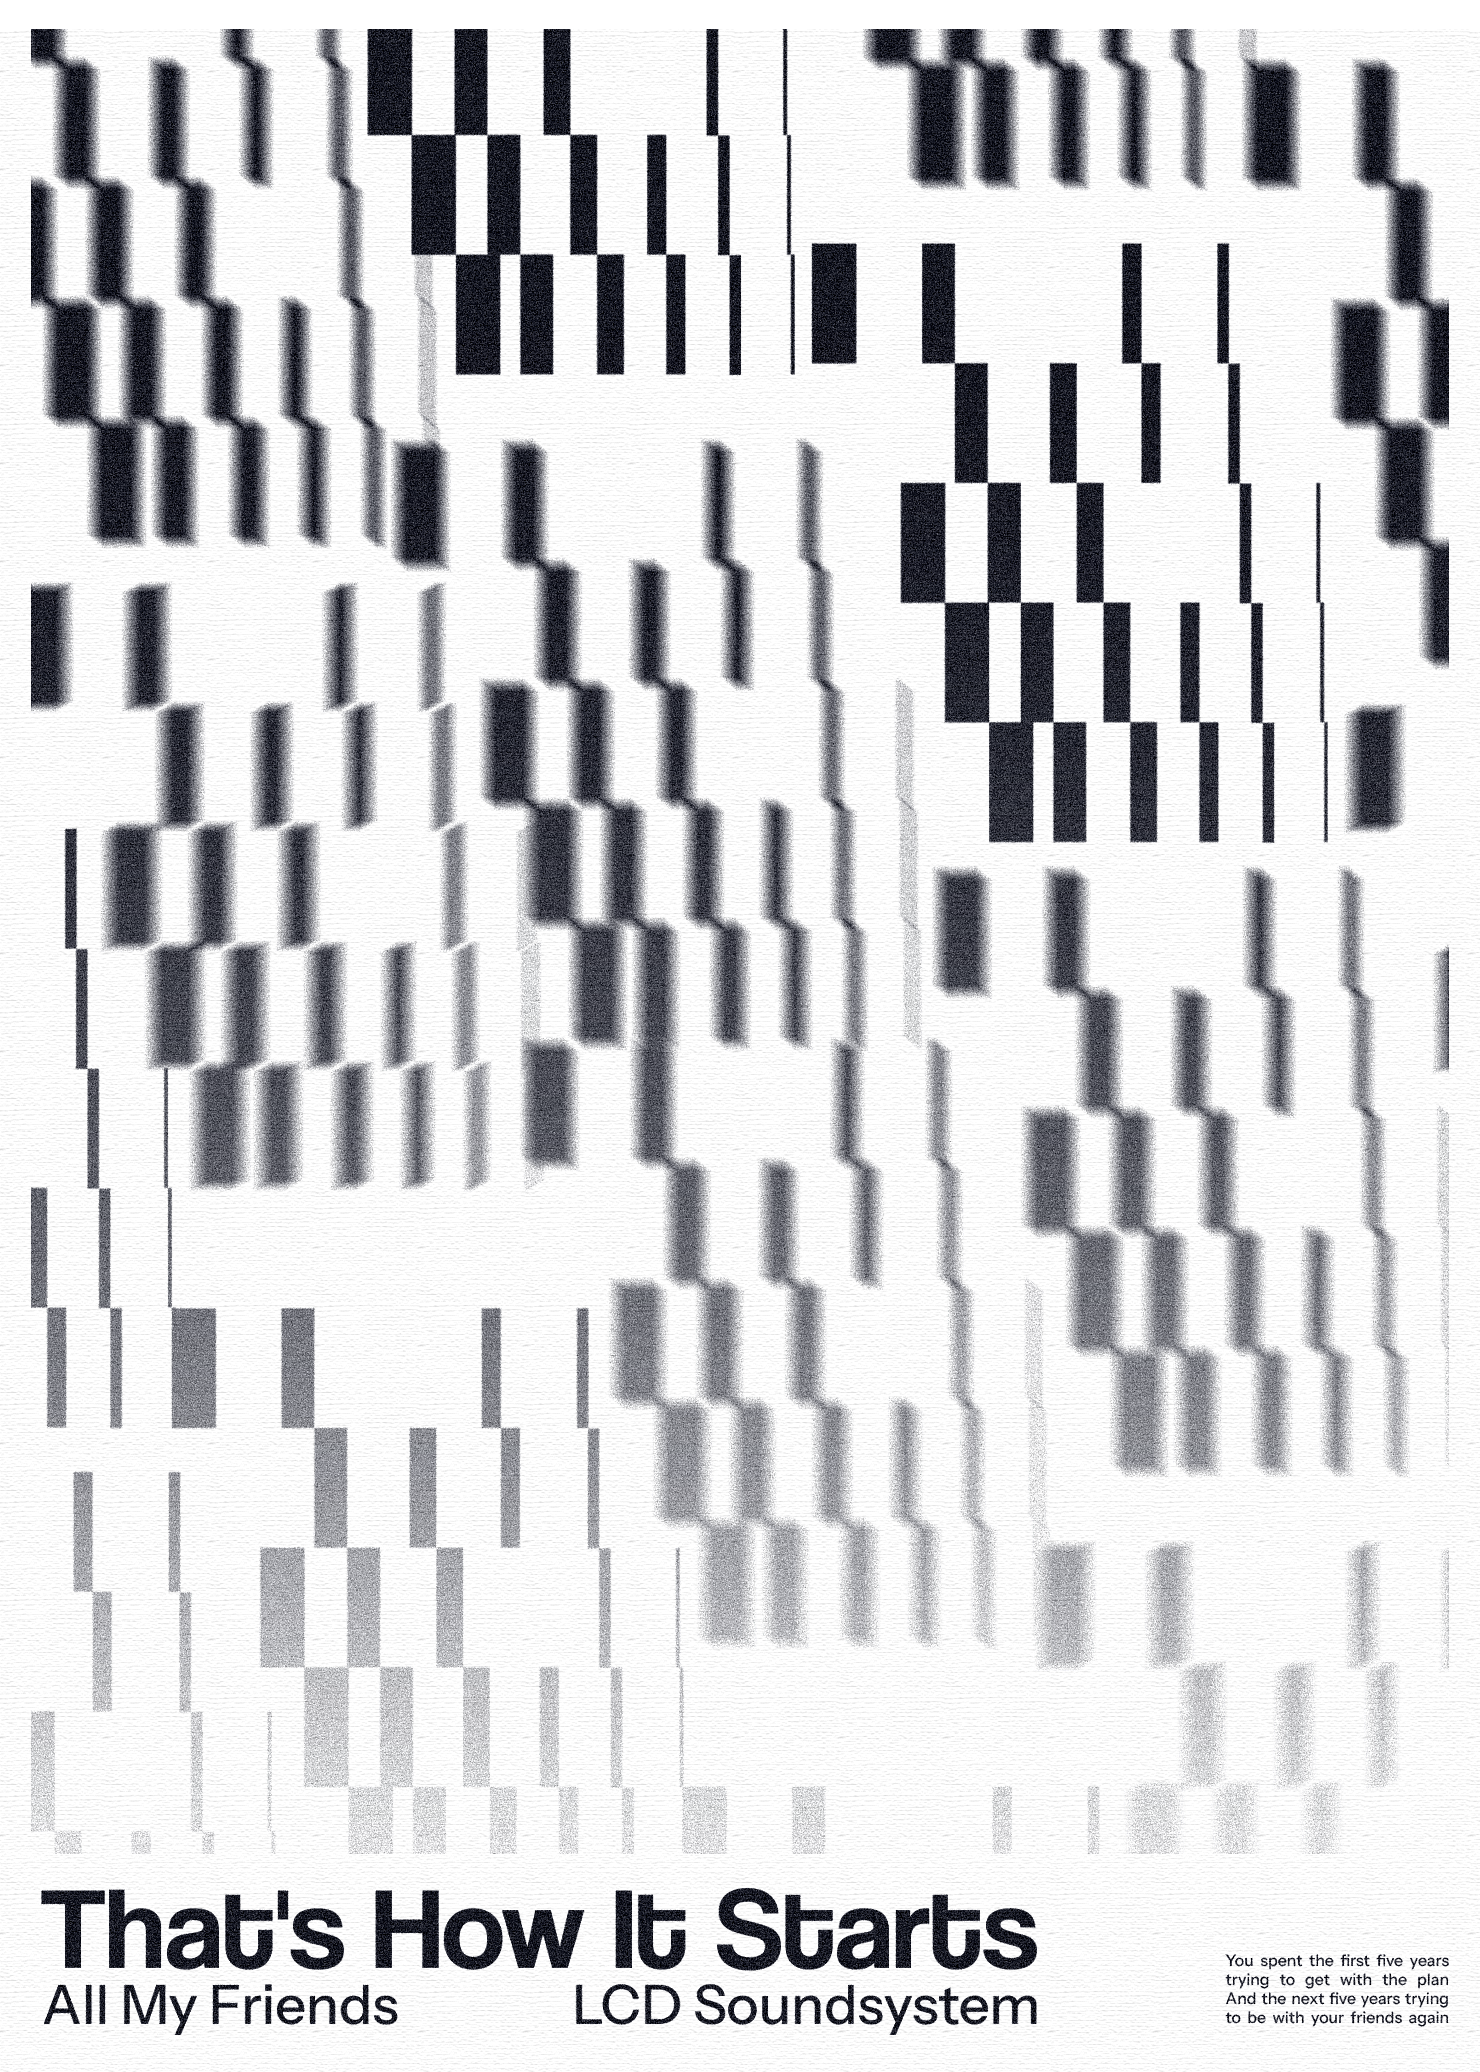
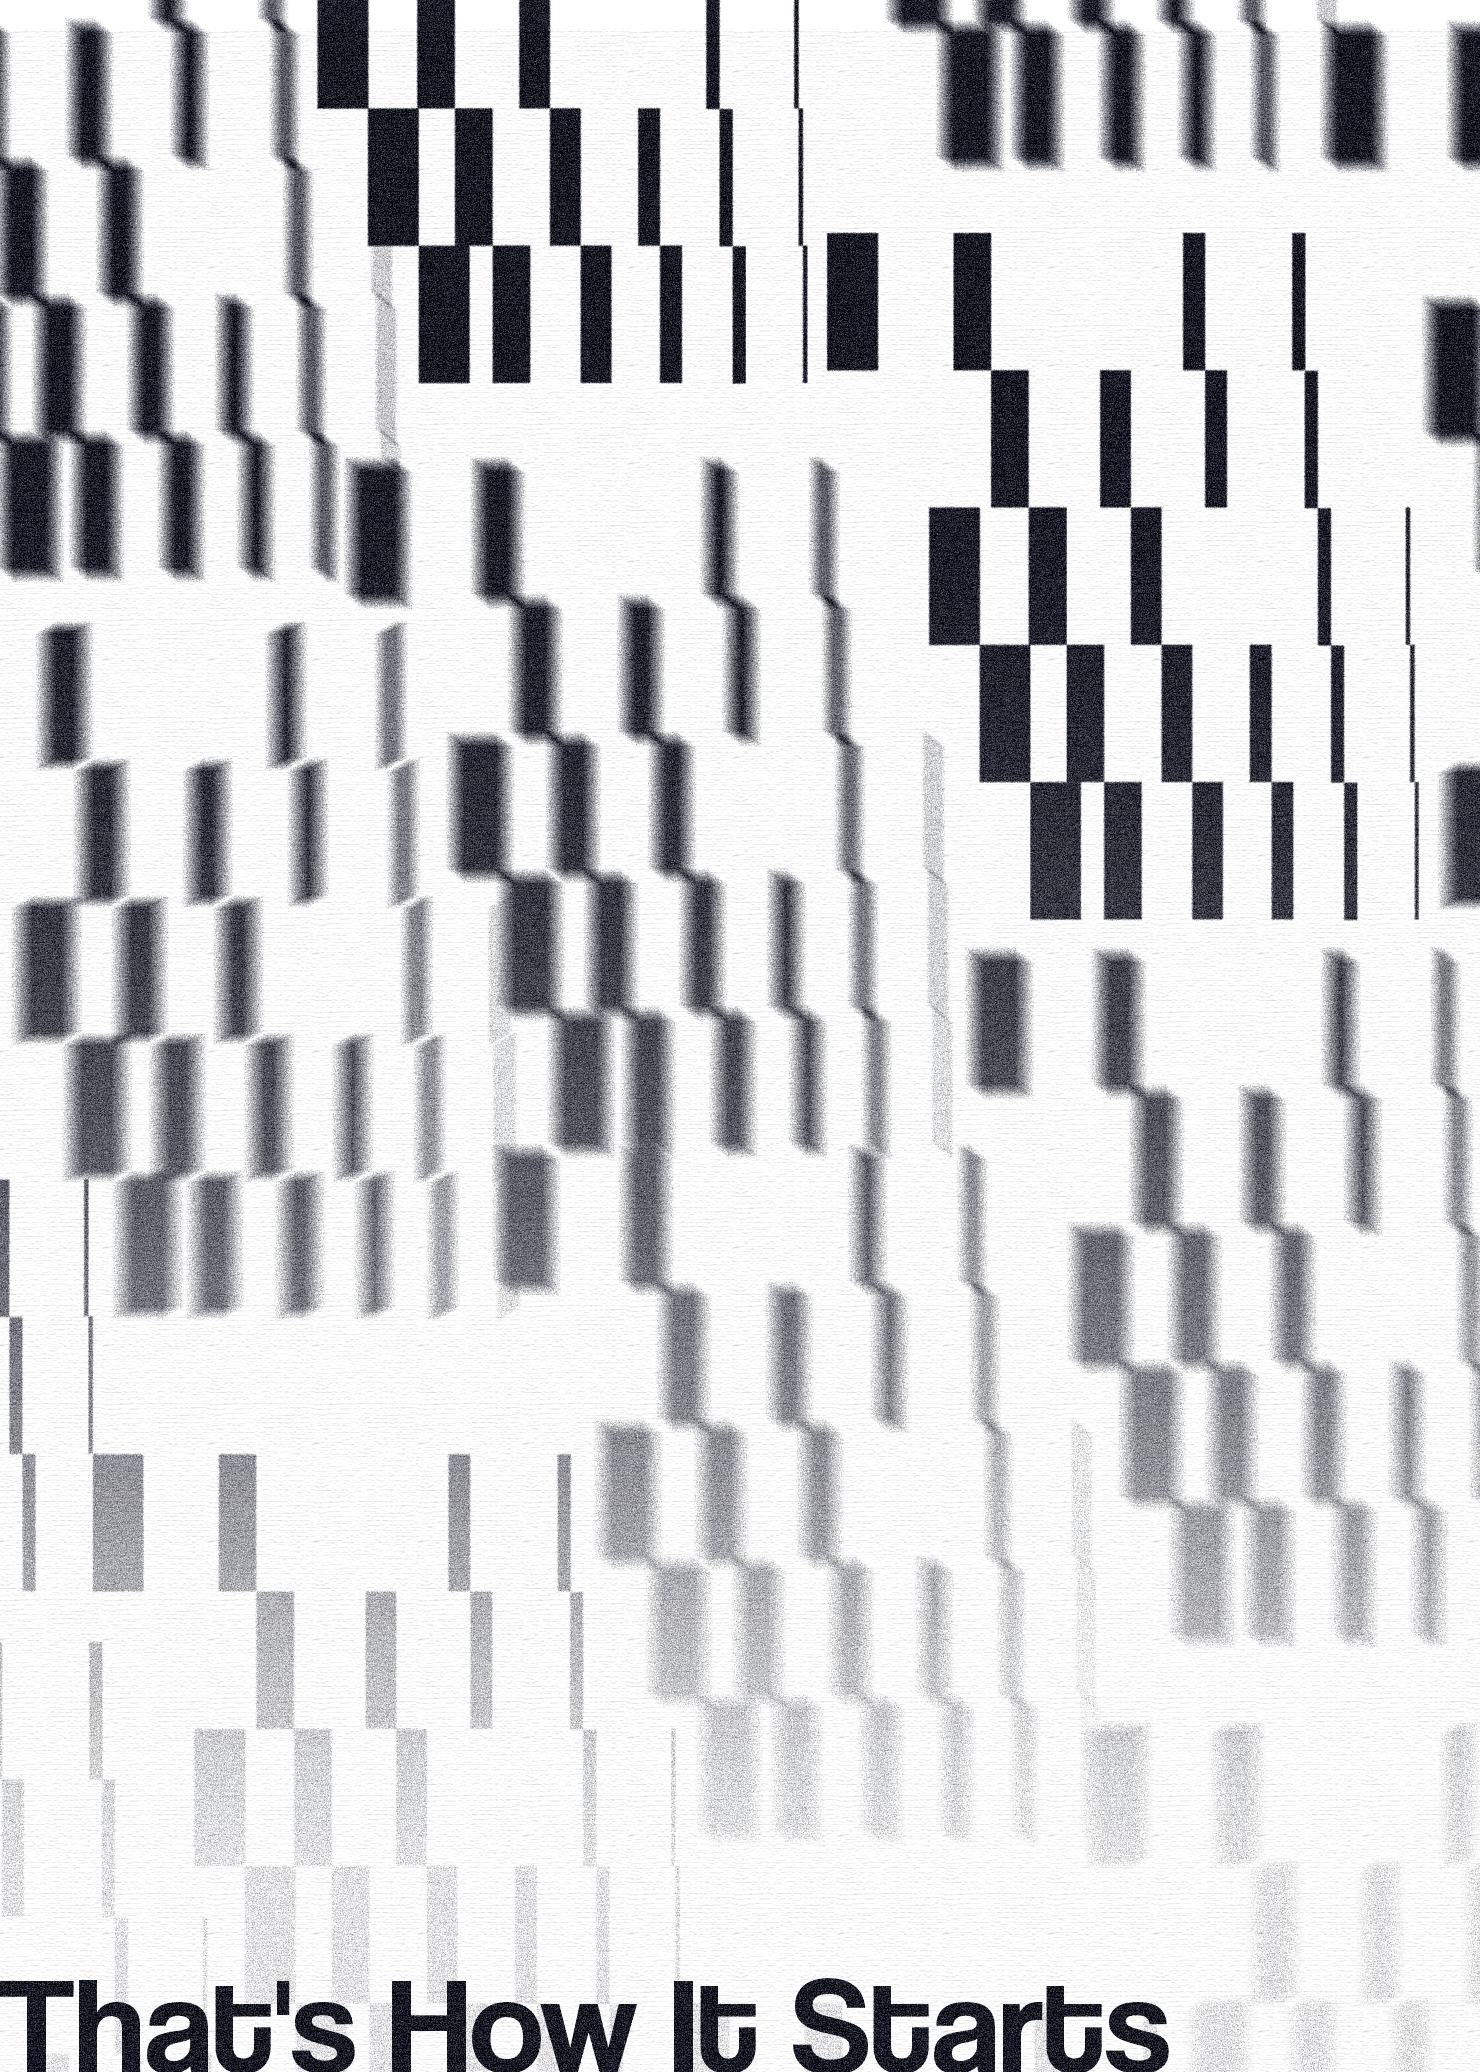
ungeneration and update all my friends

diff --git a/src/routes/+page.svelte b/src/routes/+page.svelte
@@ -17,6 +17,7 @@
 	import modern from '$lib/assets/designs/modern.png';
 	import allmyfriends from '$lib/assets/designs/all-my-friends.png';
 	import growingdying from '$lib/assets/designs/growing-dying.png';
+	import ungeneration from '$lib/assets/designs/ungeneration.png';
 	import ZoomText from '$lib/components/ZoomText.svelte';
 	import './+page.css';
 
@@ -55,6 +56,13 @@
 
 	// Add a songUrl to any design to show its View Song link.
 	const designs: Design[] = [
+		{
+			title: 'Ungeneration',
+			description:
+				'"Unoriginal generation". I am not an anti-AI person, just thought it was an interesting concept.',
+			date: '7/13/2026',
+			image: ungeneration
+		},
 		{
 			title: 'Growing / Dying',
 			description: 'Just enough to tell the forest from the fire',